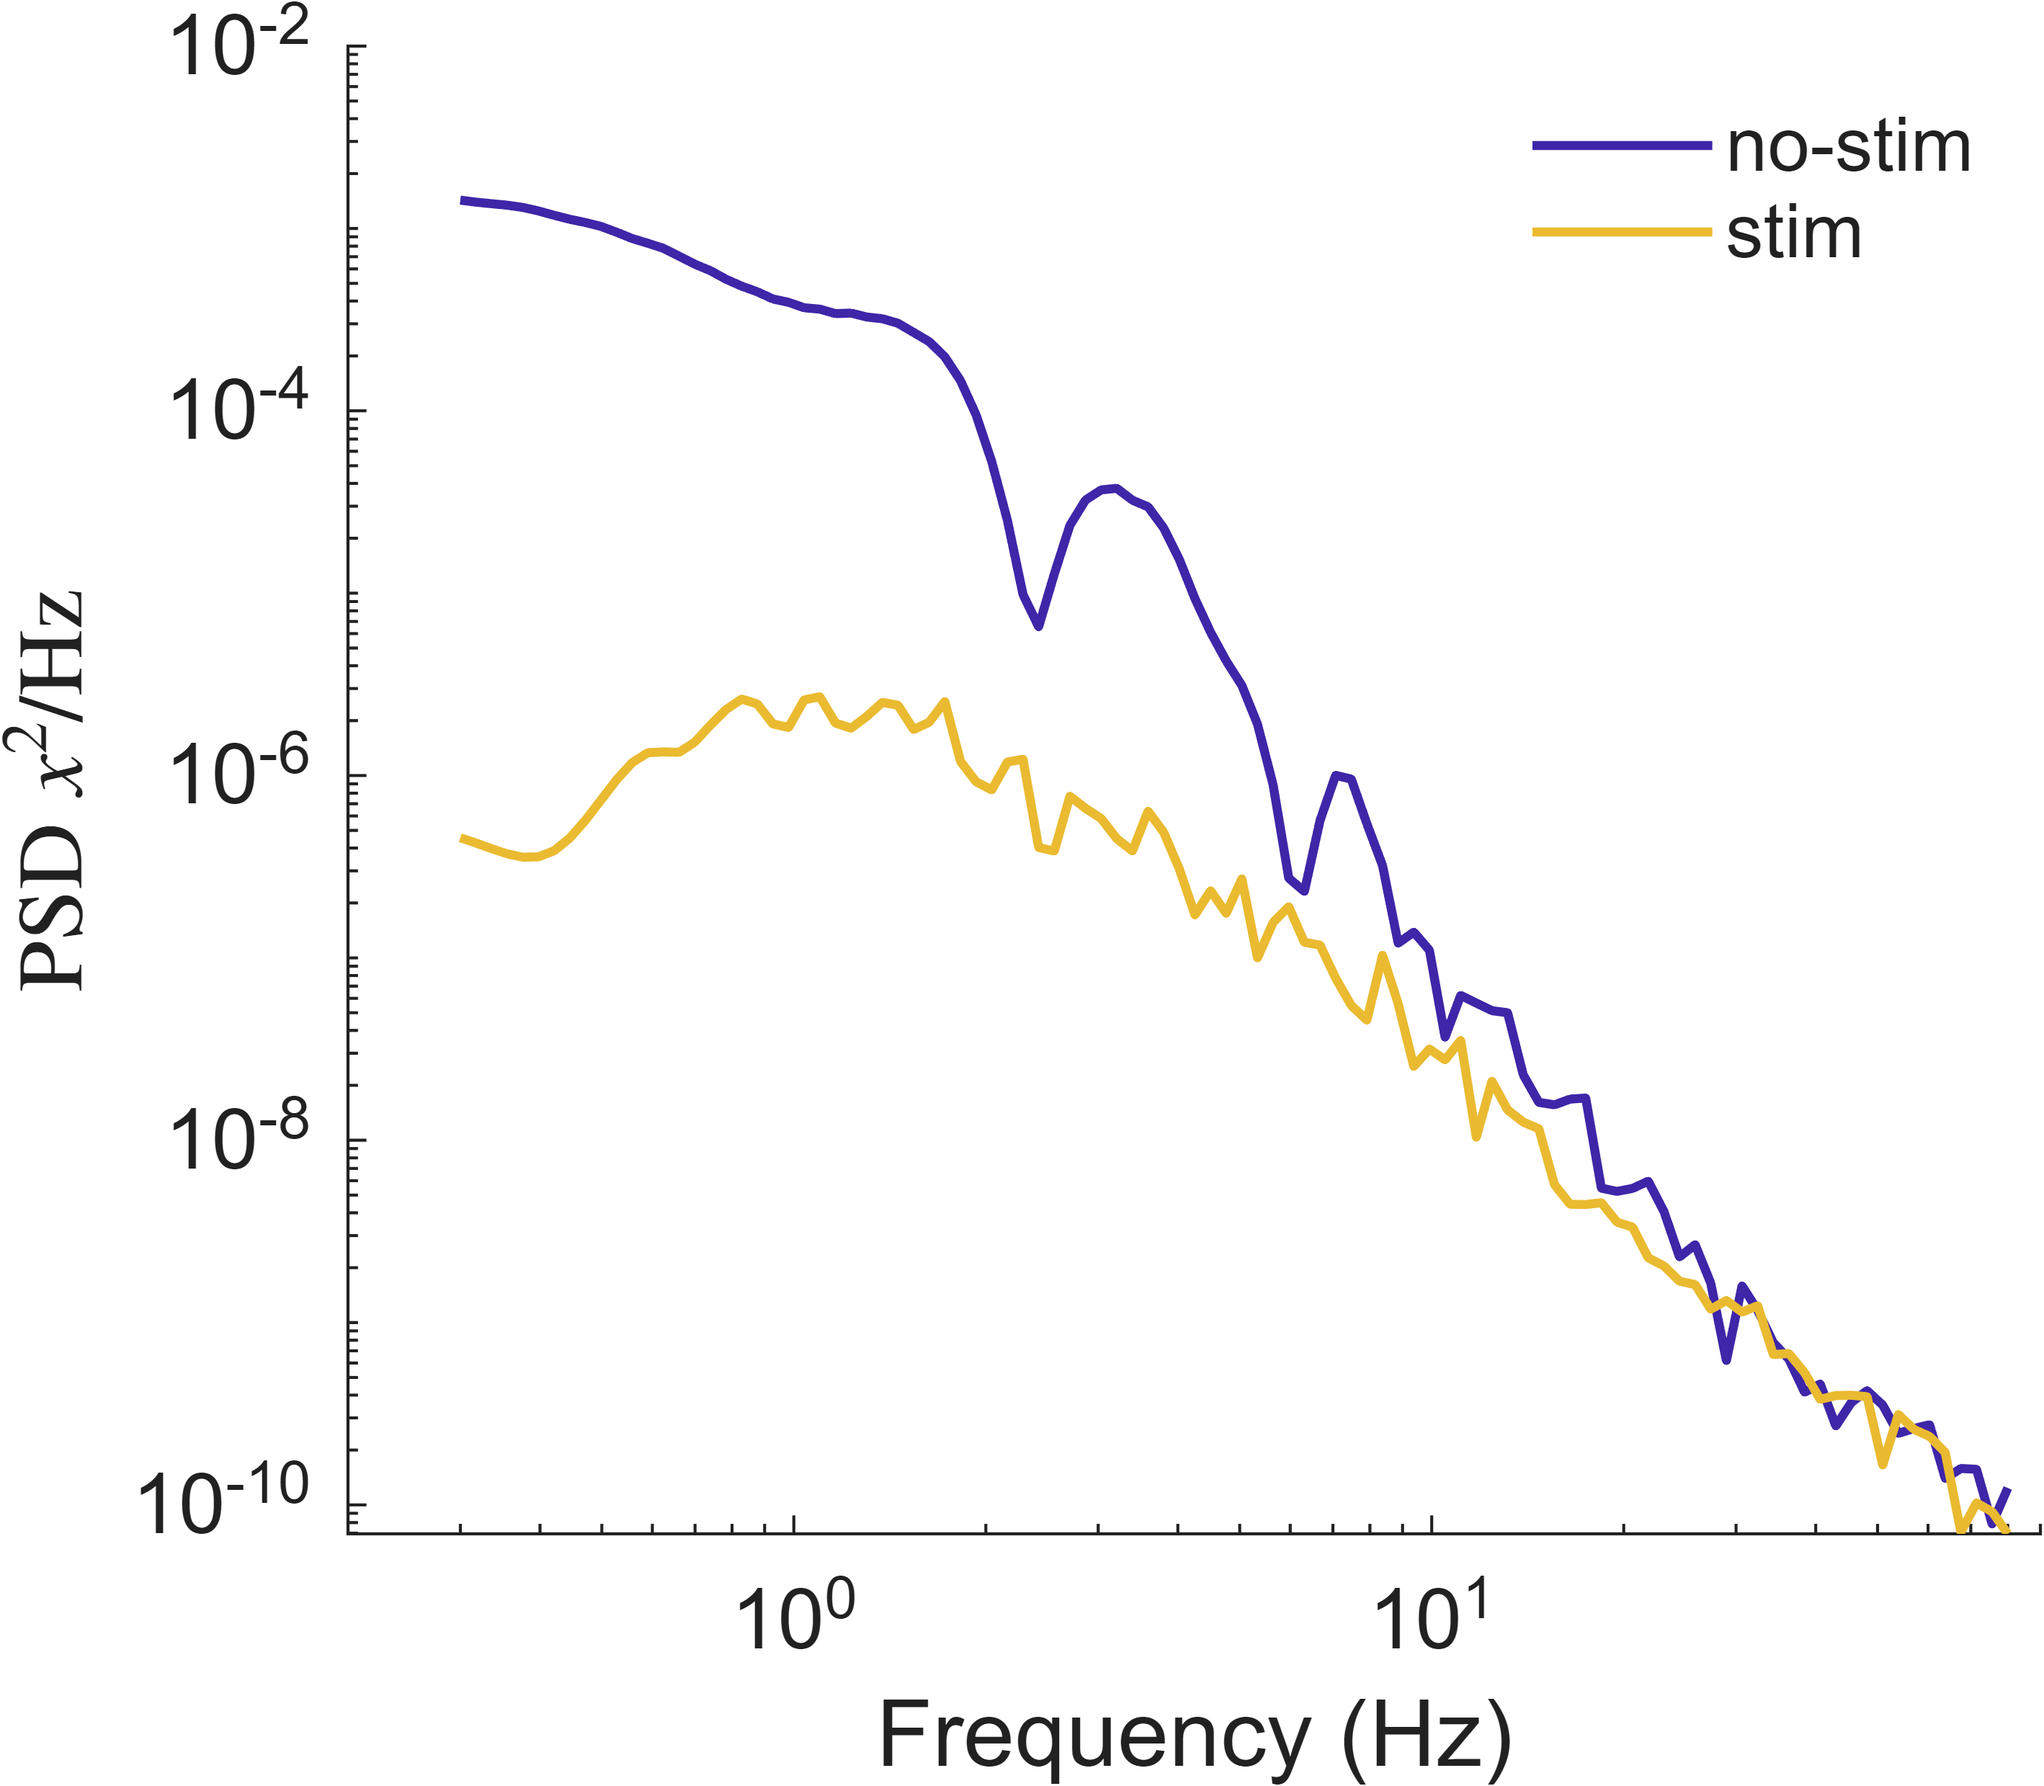
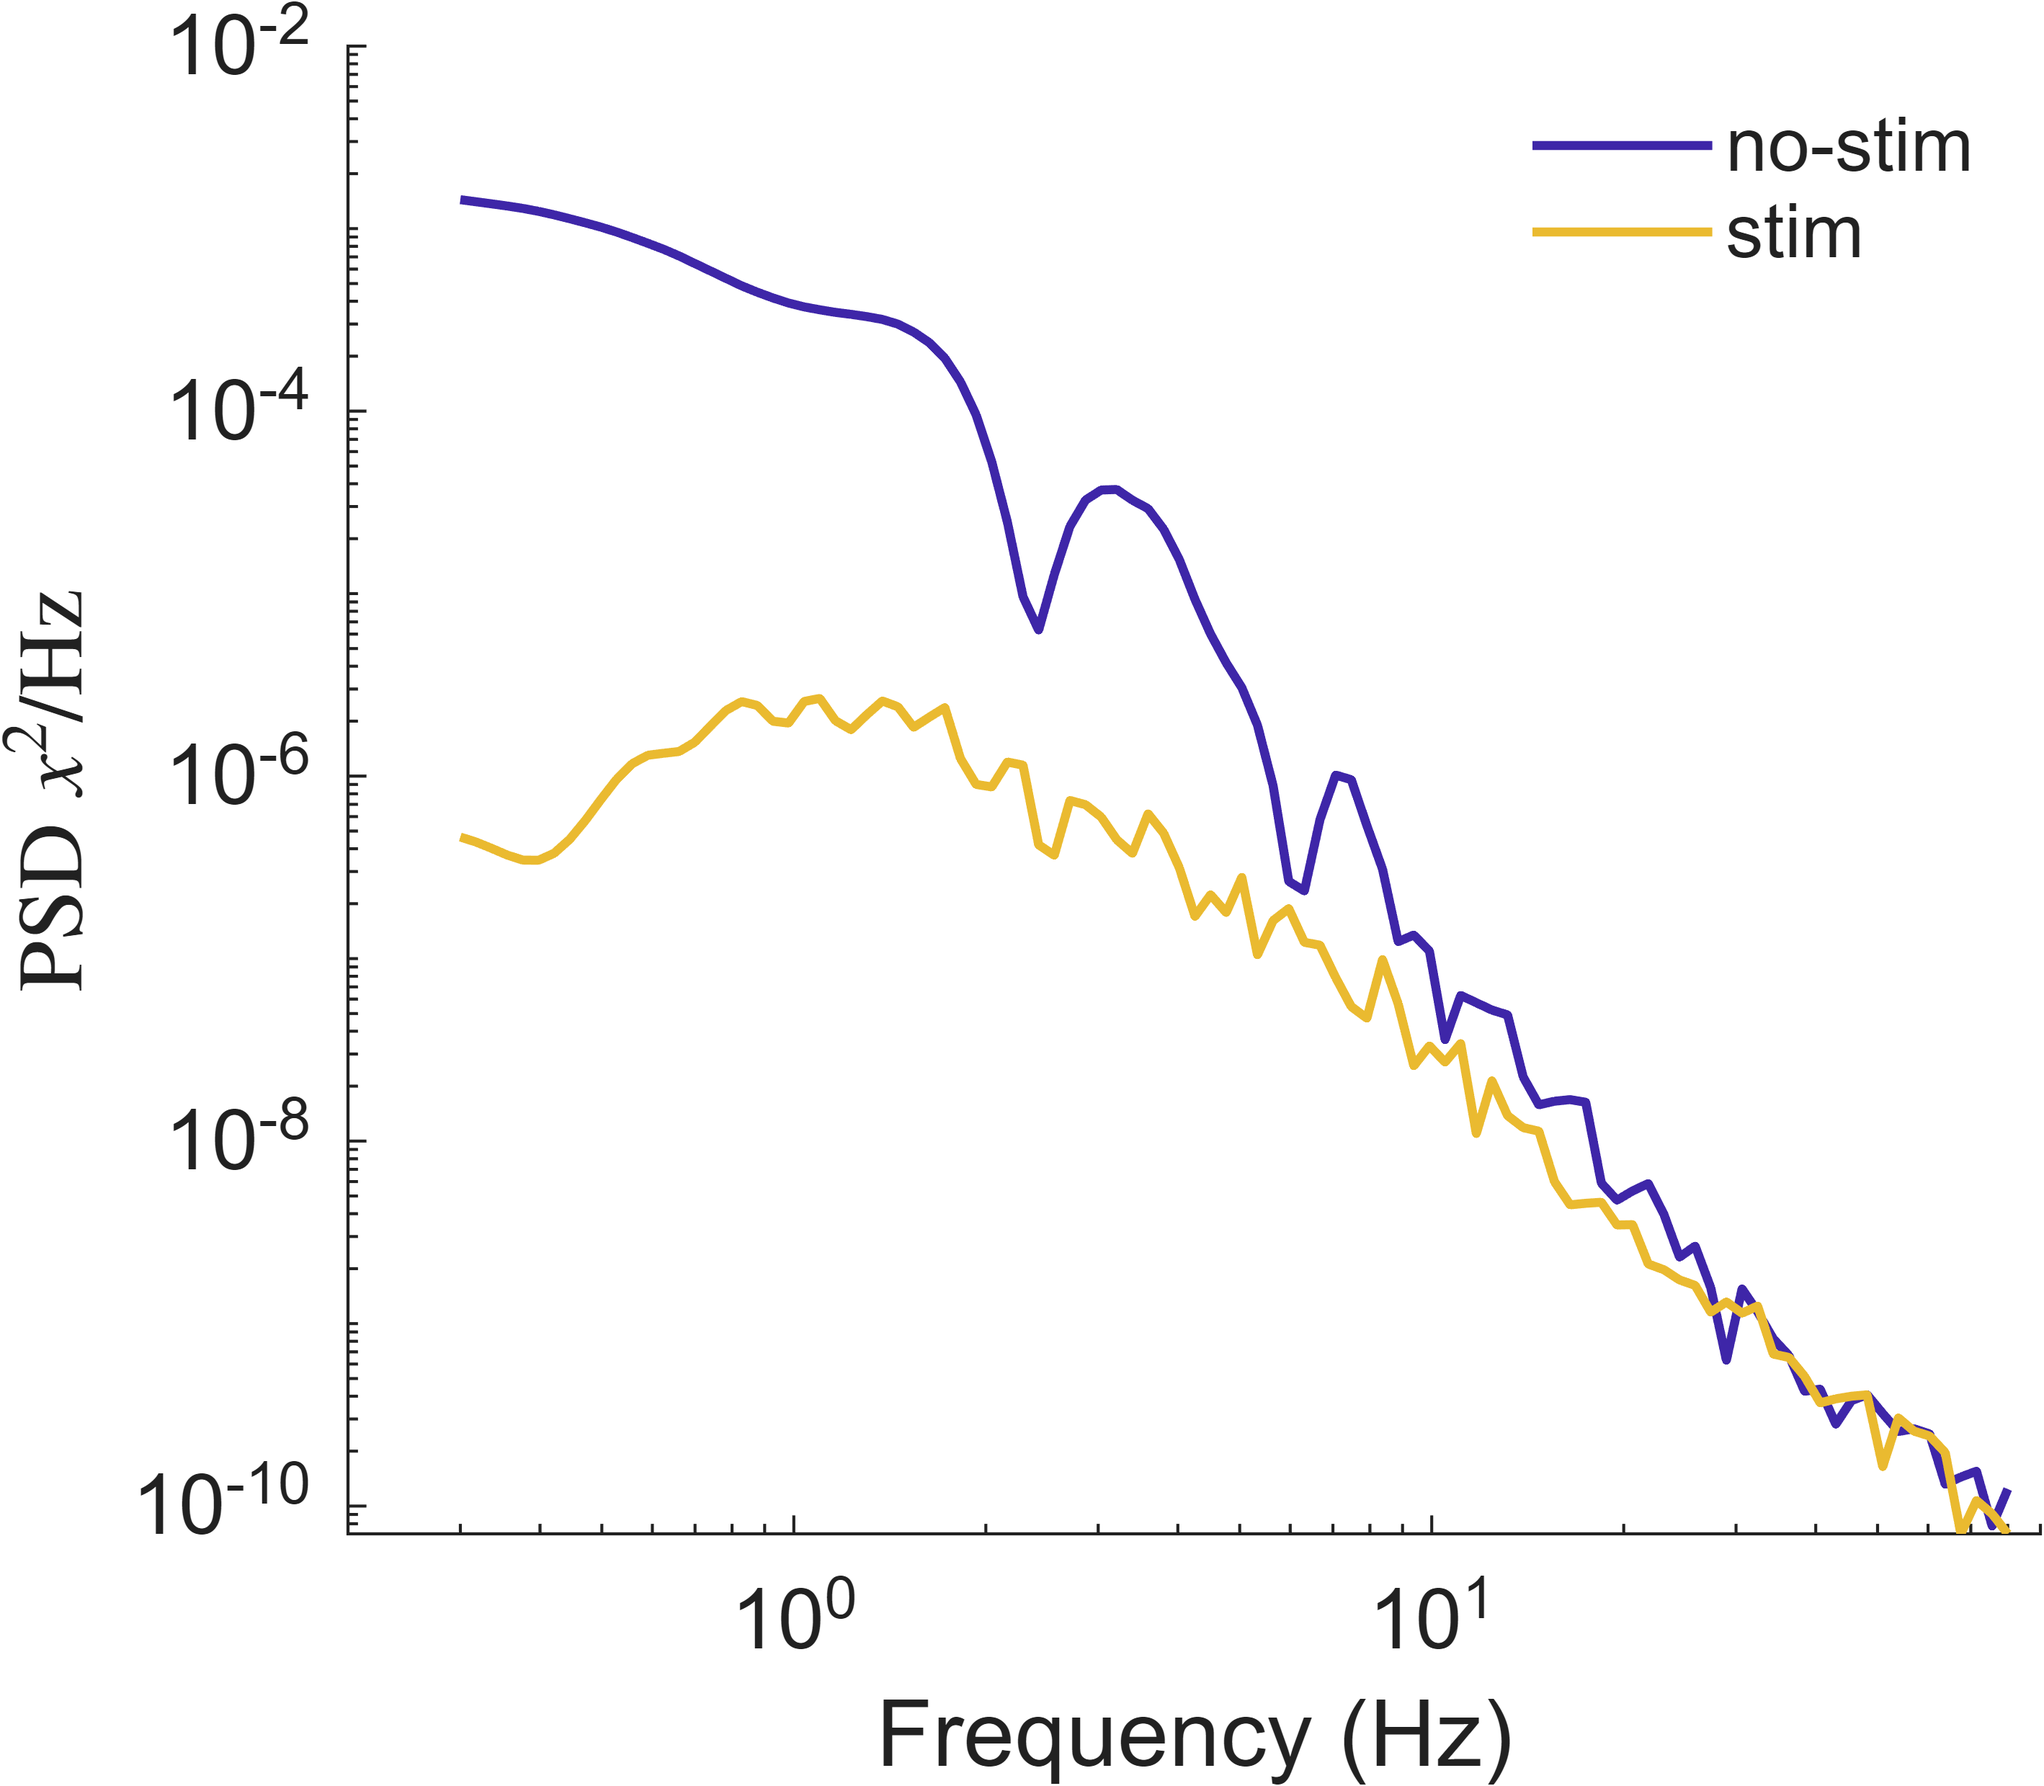
stim vs no stim bursting psd fig now wiht hann

diff --git a/scripts/presentations/Stability_Manuscript/fig_stim_engages_adaptation/bursting_SRNN_model_good_ex.m b/scripts/presentations/Stability_Manuscript/fig_stim_engages_adaptation/bursting_SRNN_model_good_ex.m
@@ -272,7 +272,7 @@ for ii = 1:numel(psd_show_levels)
     
     % Clamp Hamming window to available signal length (guards short windows)
     win_len  = min(round(psd_win_len_s * model.fs), numel(x_seg));
-    win      = hamming(win_len);
+    win      = hann(win_len);
     noverlap = floor(psd_overlap_frac * win_len);
     
     [pxx, fpx] = pwelch(x_seg, win, noverlap, psd_f, model.fs);
